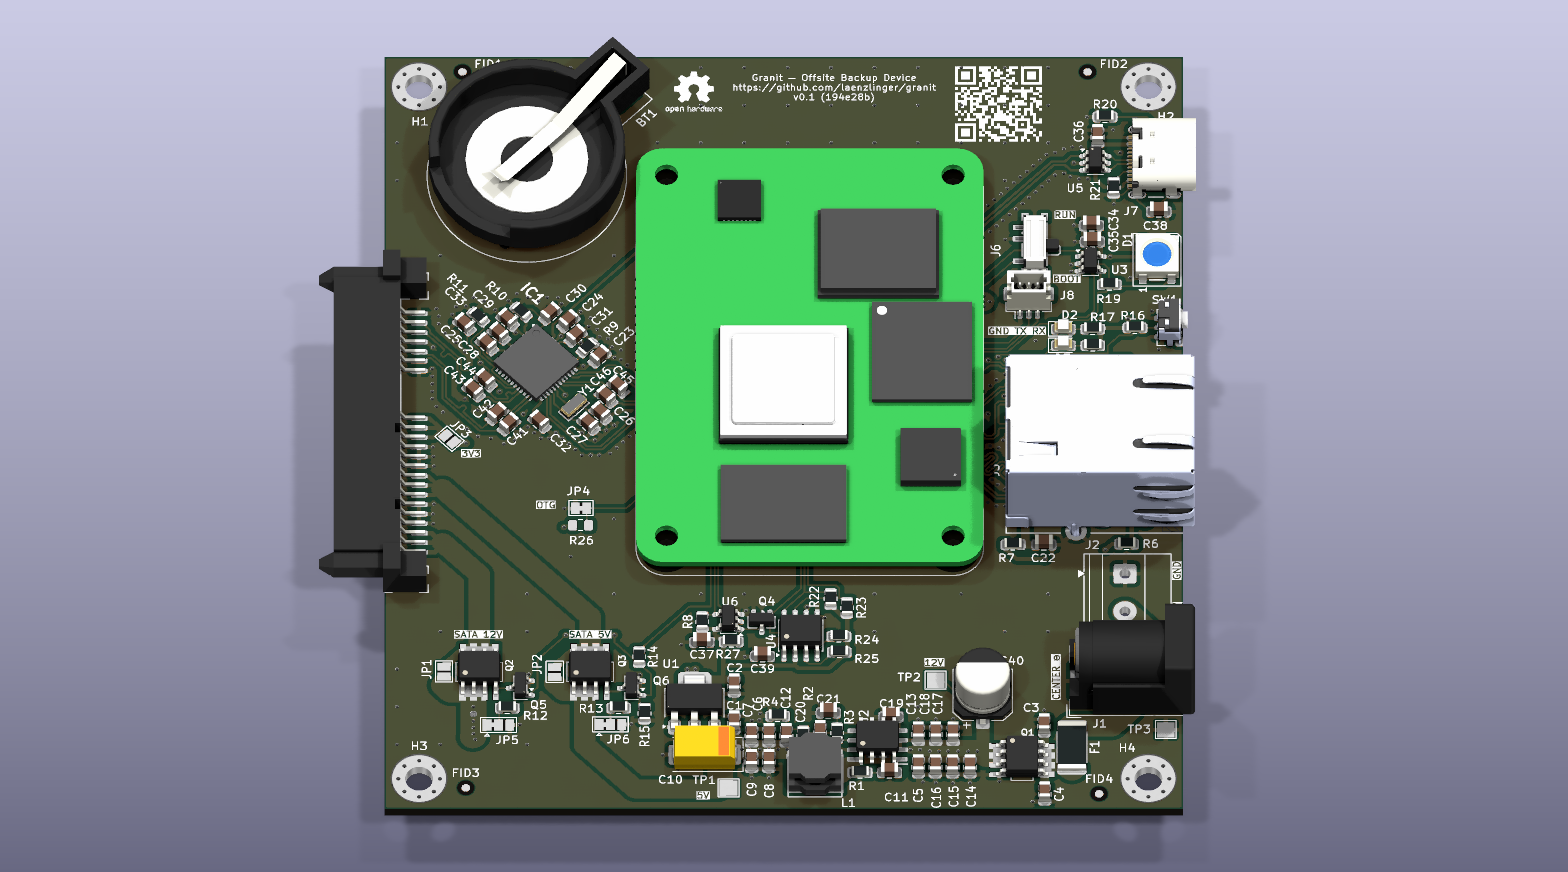
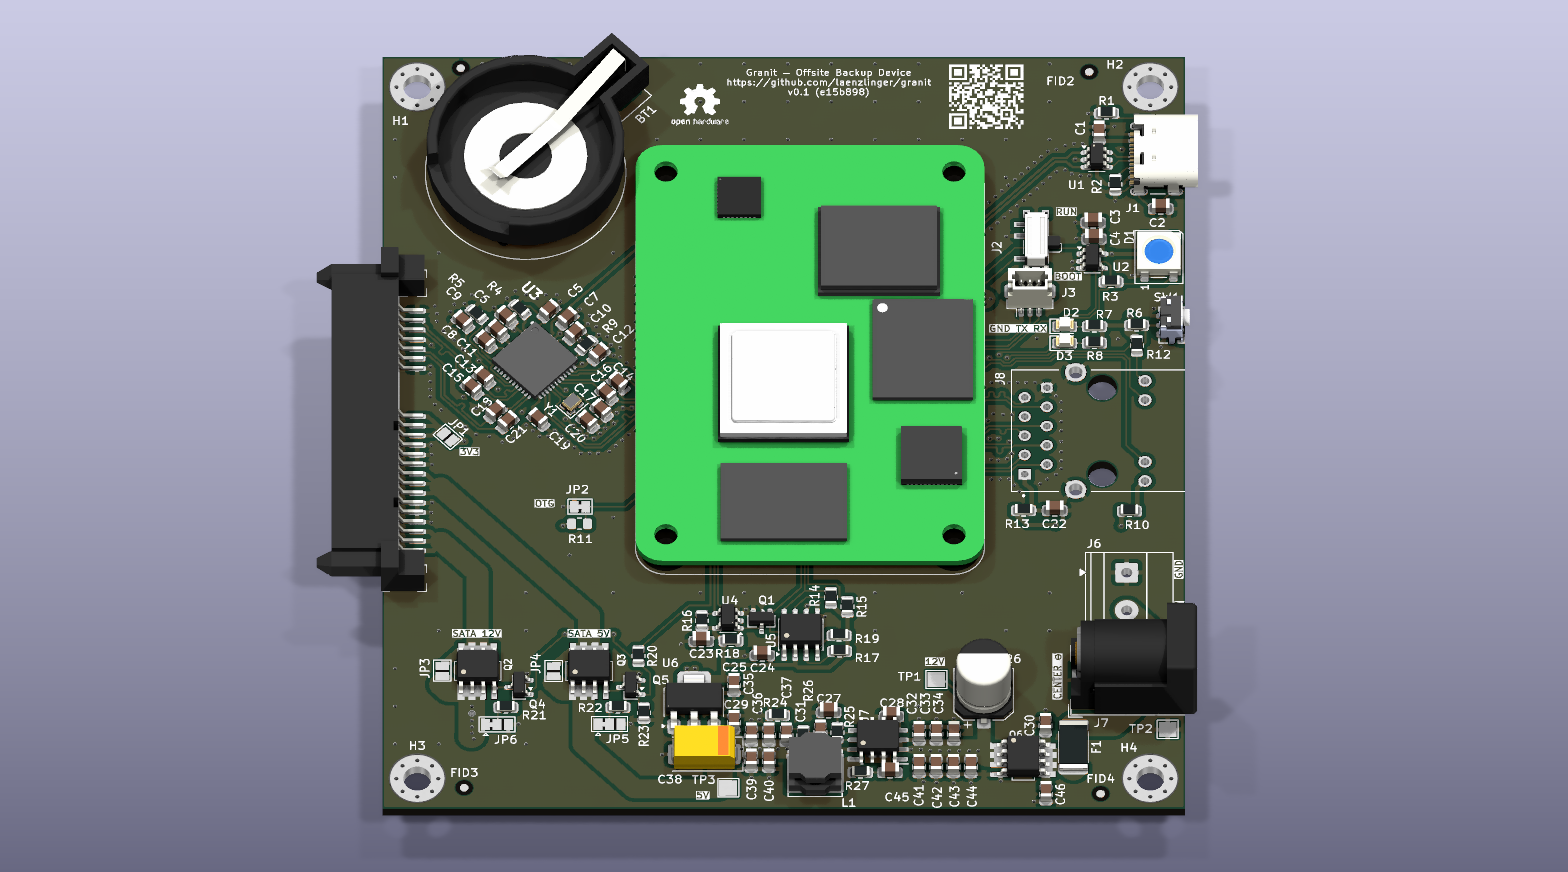
docs: update README, TODO, and 3D render for v0.3.0
- Mark all respin items as done (RJ45, crystal, cap, board width)
- Update board dimensions to 92 × 99.5mm
- Update RJ45 to HR911130A in README
- Updated 3D render

diff --git a/TODO.md b/TODO.md
@@ -38,7 +38,7 @@ Side-by-side layout inside Hammond 1455L2201 (220mm length):
 - SATA connector on PCB edge mates directly with HDD
 - External connectors (RJ45, USB-C, barrel jack, button) on opposite end panel
 
-Max PCB size: **71 × 99mm** (fits 1455L card guides at 99.5mm — compatible with both cases)
+Max PCB size: **92 × 99.5mm** (fits Hammond 1455 card guides at 100.00 ±0.51mm)
 
 Both PCB and HDD mount independently to the belly plate (slide-out for servicing).
 
@@ -112,7 +112,7 @@ min 0.09mm trace/space, 0.2mm drill, 0.13mm annular ring.
 
 PCB standoff height must match HDD SATA connector vertical position (~3.5mm above belly plate).
 
-- [x] Board outline: 92 × 100mm (fits 1455L slim and 1455T2601 wide cases)
+- [x] Board outline: 92 × 99.5mm (fits Hammond 1455 card guides at 100.00 ±0.51mm)
 - [x] Verify PCB standoff height aligns SATA connector with HDD receptacle
 - [x] 4-layer stackup (signal/GND/power/signal)
 - [x] SATA connector: replaced J4+J5 with single 22-pin Amphenol 10029364-001LF (horizontal/right-angle)
@@ -149,9 +149,9 @@ PCB standoff height must match HDD SATA connector vertical position (~3.5mm abov
 ## PCB Respin (v0.3.0)
 
 - [x] RJ45: swapped to HR911130A (Hanrun GbE) — widely available, future-proof
-- [ ] Crystal Y1: swap 3215 2-pin → 2016 4-pin footprint — easier to source, smaller
-- [ ] Cap C26: swap CP_Elec_6.3x5.8 → CP_Elec_6.3x7.7 — common size on LCSC
-- [ ] Board width: shrink Y axis from 100mm to 99.5mm — Hammond 1455 card guide slot is 100.00 ±0.51mm
+- [x] Crystal Y1: swap 3215 2-pin → 2016 4-pin footprint — easier to source, smaller
+- [x] Cap C26: swap CP_Elec_6.3x5.8 → CP_Elec_6.3x7.7 — common size on LCSC
+- [x] Board width: shrink Y axis from 100mm to 99.5mm — Hammond 1455 card guide slot is 100.00 ±0.51mm
 
 ## Enclosure
 

diff --git a/README.md b/README.md
@@ -19,7 +19,7 @@ This PCB is designed with [KiCad 10](https://www.kicad.org/blog/2026/03/Version-
 | ASM1061 | PCIe Gen 2 x1 to 2-port SATA III controller (no firmware blob required) |
 | 2.5" or 3.5" SATA HDD/SSD | Backup storage |
 | Amphenol 10029364-001LF | 22-pin SATA connector (data 7-pin + power 15-pin), right-angle |
-| RJ45 + Ethernet magnetics | Gigabit Ethernet |
+| RJ45 + Ethernet magnetics | Gigabit Ethernet (Hanrun HR911130A GbE MagJack) |
 | DS3231 RTC | Battery-backed real-time clock with alarm wake (I2C) |
 | CR2032 coin cell | RTC backup battery |
 | RGB LED | Status indicator (idle/backup/error/maintenance) |
@@ -144,7 +144,7 @@ by a non-technical person: plug in Ethernet, plug in power, done.
 
 ### Hammond 1455 Series
 
-Same PCB (92 × 100mm) fits both cases, held by a 3D printed internal frame.
+Same PCB (92 × 99.5mm) fits both cases, held by a 3D printed internal frame.
 PCB and HDD sit side-by-side along the enclosure length, SATA connector direct-mates between them.
 
 | | 1455L2201 (Slim) | 1455T2601 (Wide) |
